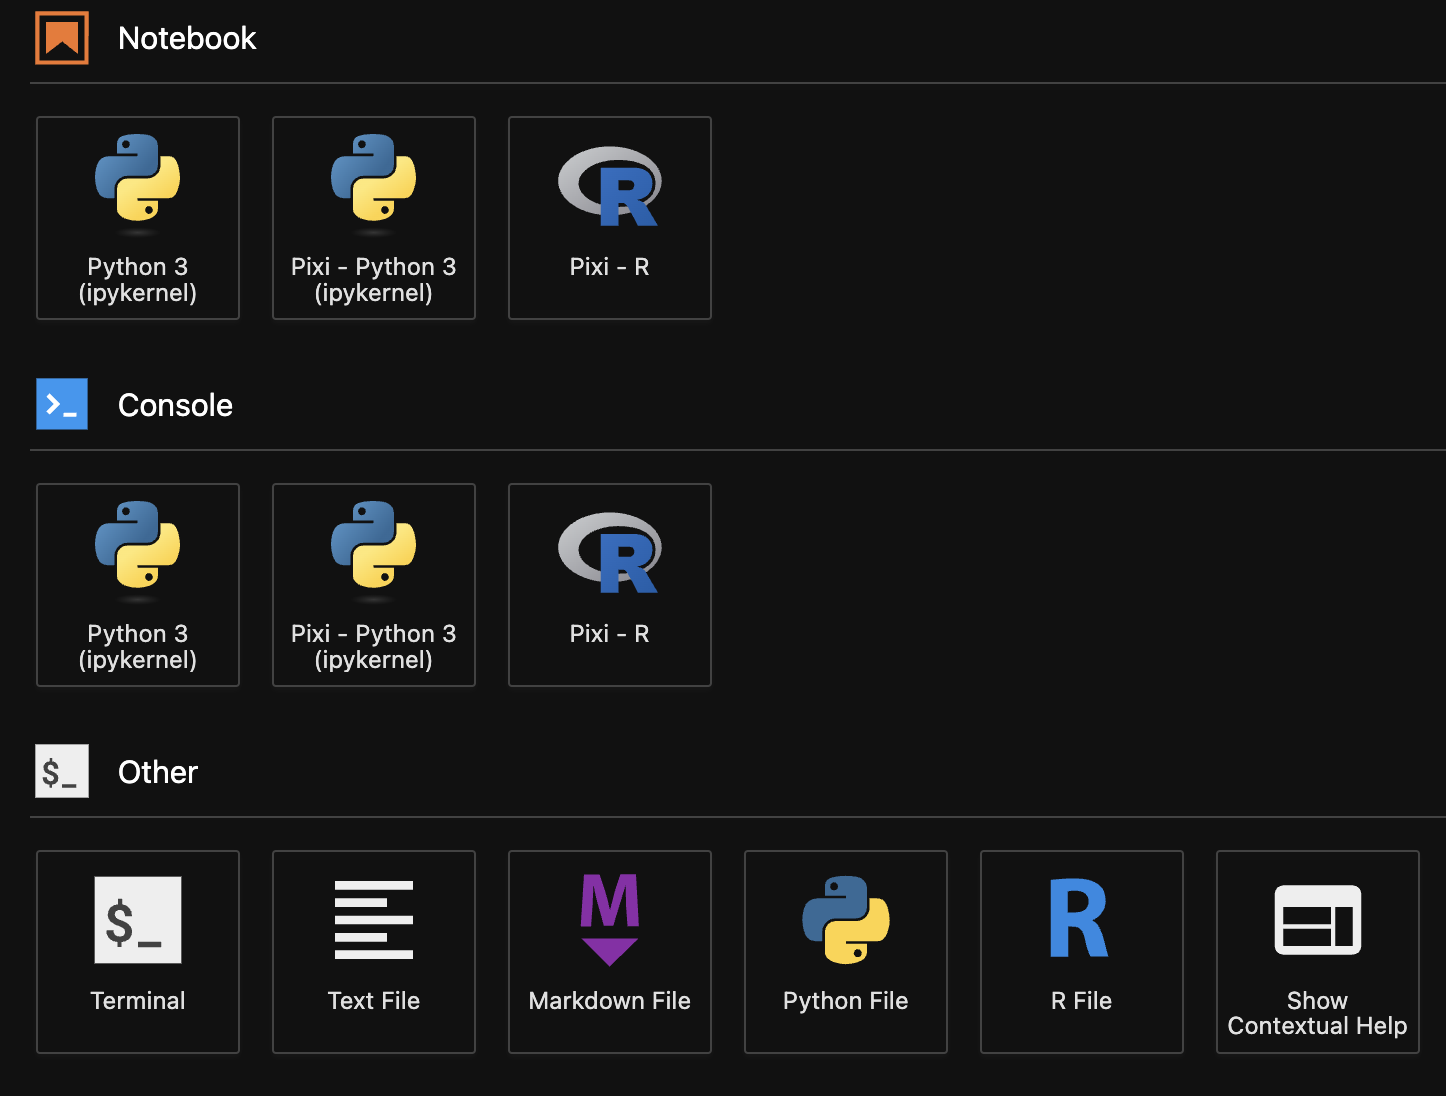
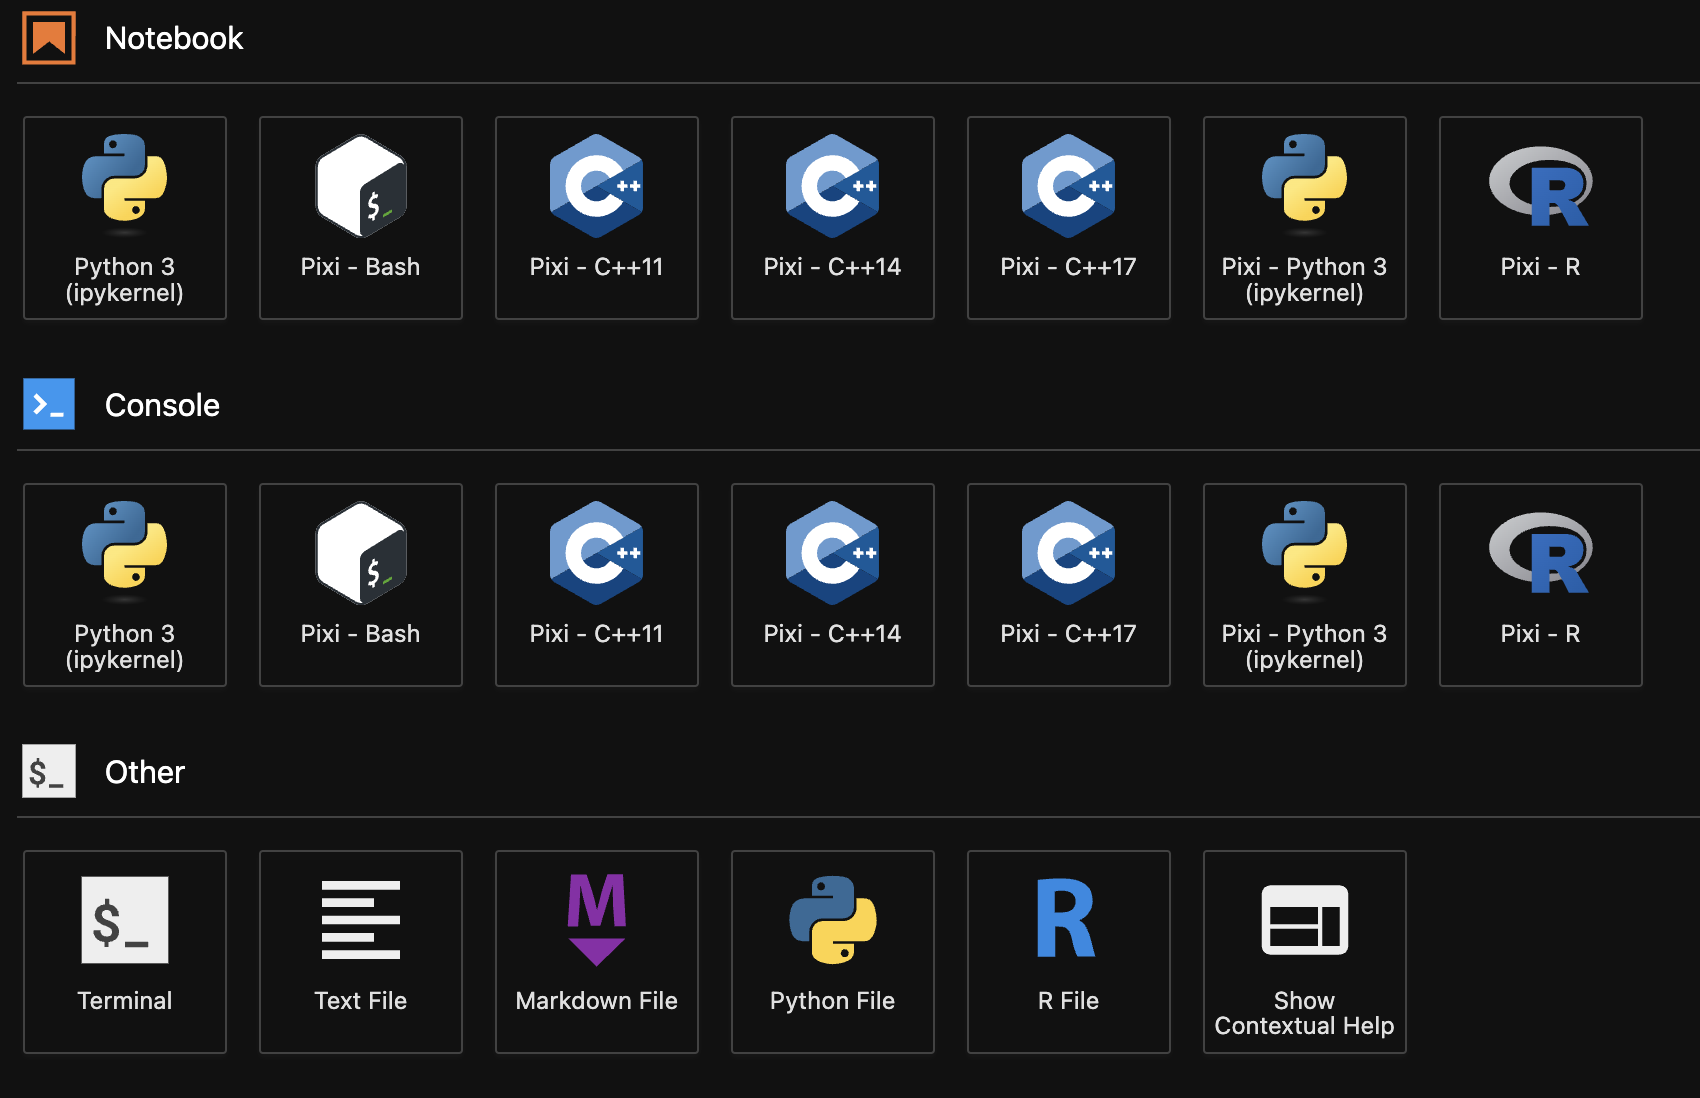
docs: update screenshots and add instructions to add new kernels

diff --git a/CONTRIBUTING.md b/CONTRIBUTING.md
@@ -70,4 +70,24 @@ pixi run lint
 
 ## Adding support for new kernels
 
-TODO
+Follow the steps below to add support for a new kernel:
+
+1. In a fresh Pixi environment install your kernel with `pixi install <kernel>`.
+2. Copy the new folders created at `.pixi/envs/default/share/jupyter/kernels/` to the `kernels`
+   folder and commit the changes.
+3. Update the display name, metadata and command arguments in the kernel spec file `kernel.json`.
+4. Update the Kernel Support table in the README.
+5. Add integration tests for the new kernel in the `tests/integration` folder and commit the
+   changes.
+
+You can find below two examples of adding support for new kernels:
+
+Steps 1 and 2:
+
+- [feat: copy original xeus cling kernel spec](https://github.com/renan-r-santos/pixi-kernel/commit/f76c4861041b599b77232988dbc8f1d22edfbf49)
+- [feat: copy original bash kernel spec](https://github.com/renan-r-santos/pixi-kernel/commit/93342c82633b4eff8e342a292a143c5f85f829aa)
+
+Steps 3 to 5
+
+- [feat: add support for xeus cling kernel](https://github.com/renan-r-santos/pixi-kernel/commit/8aa9214f220deeb2b133f3ddbfb36e2de2039ca1)
+- [feat: add support for bash kernel](https://github.com/renan-r-santos/pixi-kernel/commit/02459c2063a67b3216c9f0fda11b1613583b472c)
